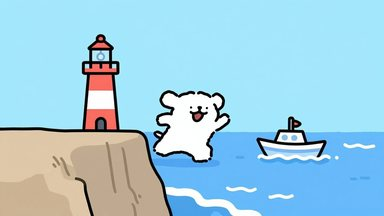
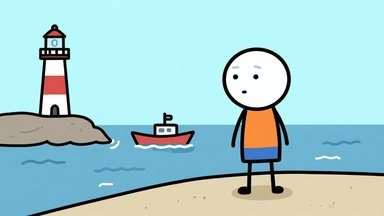
feat(editor): eight more picture styles, and a stickman redrawn from scratch
Adds pencil sketch, pixel art, claymation, paper cut-out, old engraving,
low-poly, film noir and cyberpunk neon, each with its three sample
pictures for the New video form.

The stickman style is rewritten: big bald white heads with dot eyes,
thin black line limbs, a small coloured tunic and flat-colour scenery.
Videos already made keep the wording they were made with.

diff --git a/resource/public/editor/editor.js b/resource/public/editor/editor.js
@@ -4677,6 +4677,10 @@ const STYLE_LABELS = {
   anime: "Anime", digital_art: "Digital art", oil_painting: "Oil painting",
   watercolour: "Watercolour", three_d: "3D render", flat_vector: "Flat vector",
   stickman: "Stickman explainer", comic: "Comic book",
+  pencil_sketch: "Pencil sketch", pixel_art: "Pixel art",
+  claymation: "Claymation", paper_cutout: "Paper cut-out",
+  engraving: "Old engraving", low_poly: "Low-poly", noir: "Film noir",
+  cyberpunk: "Cyberpunk neon",
 };
 
 function styleLabel(id) {

diff --git a/app/models/image_style.py b/app/models/image_style.py
@@ -56,33 +56,39 @@ class ImageStyle:
 # The first entry must match the shipped default template verbatim, or a fresh
 # install would open the selector showing "Custom". Asserted in the tests.
 #
-# “stickman”的措辞是逐张比对出来的,不要随手改长。实测十余张图说明：模型
-# 画这类角色时有很强的固有偏好,再怎么写“细黑线四肢”也只会得到圆头白身的
-# 吉祥物;真正会丢的是动作和道具。所以“手里拿着与动作相关的物体、充满动感
-# 的姿势”放在前面,背景描述放在最后——把词都花在背景上的那一版画出了漂亮的
-# 风景和一个呆站着的角色。另外“whiteboard”不能用,模型会真的画一块白板。
-# The wording here was arrived at by comparing frames, not by writing prose.
-# The test images showed the model has a strong prior for this round-headed
-# mascot and ignores limb geometry however it is described -- what it actually
-# drops is the action and the prop. So the action clause comes first and the
-# background clause last: the variant that spent its words on scenery drew a
-# beautiful landscape with a figure standing in it doing nothing. "objects of
-# the action" beats "tools of the action", which biases towards implements and
-# got a spatula for a keyword about two bottles. "whiteboard" is unusable --
-# the model draws an actual whiteboard, frame and all.
+# “stickman”重写过。原来那一版（"cute stick figure cartoon, round white
+# head, ... thin black line arms and legs"）画出来的是个圆头白身的吉祥物，
+# 不是火柴人。现在这一版照的是 YouTube 上"火柴人科普"那一路的样子：光头
+# 大白脑袋、两个小黑点眼睛加短眉毛、细黑线的胳膊和腿、身上一件纯色无袖
+# 小褂子，粗黑描边、平涂颜色、背景画满。逐张比对出来的几条：
+#   * 不能说 "cute" 和 "cartoon character"——模型一看到就走它那个白团子
+#     吉祥物的老路，四肢怎么描述都没用；
+#   * "胳膊和腿是单根细黑线"要单独说成一句；
+#   * 衣服必须说成"套在火柴身体外面的无袖小褂子"。只说"穿着纯色衬衫"，
+#     身体就被画成一整块色块，胳膊也跟着变粗；
+#   * 背景要明说"画满"，否则一半的图是白底。
+# 不能用的词："storyboard"（画出一页分镜格子）、"comic"和"frame"（给每张
+# 图加一个画框）、"whiteboard"（画出一块真的白板）。
+# The stickman preset was rewritten. The old wording drew a round white
+# mascot, not a stick figure. This one follows the look of the "stickman
+# explainer" channels: a big bald white head, tiny dot eyes with short
+# eyebrows, thin black line limbs, a small plain-coloured sleeveless tunic,
+# thick black outlines, flat colours and a fully drawn background. What the
+# test frames showed:
+#   * never "cute" or "cartoon character": that sends the model to its own
+#     white-blob mascot whatever is said about the limbs;
+#   * "arms and legs that are single thin black lines" has to be its own clause;
+#   * the clothing must be "a small sleeveless tunic over the stick body". A
+#     plain "wearing a coloured shirt" turns the whole body into a block of
+#     colour and thickens the arms with it;
+#   * the background has to be asked for, or half the pictures are on white.
+# Unusable words: "storyboard" (draws a grid of panels), "comic" and "frame"
+# (put a border round every picture), "whiteboard" (draws an actual one).
 #
-# 两个已知局限,不必再去调措辞：一是“贴地”的动作(弯腰、蹲下、在地面操作)
-# 大约一半的出图会丢掉道具,换过的每一种写法都这样,是模型本身的问题;二是
-# “expressive eyebrows”偶尔会画成皱眉,因为斜眉在模型眼里就是生气。想改表
-# 情只能连带牺牲别的,实测把它换成“与内容相称的表情”后,“存钱”这个词画出了
-# 一张哭丧脸。
-# Two known limits, so nobody burns another afternoon on the wording. Actions
-# at ground level -- bending, crouching, working on the floor -- drop the prop
-# in roughly half the draws, and did so in every wording tried; that is the
-# model, not the prompt. And "expressive eyebrows" occasionally lands as a
-# frown, because angled brows read as anger. Replacing it with "an expression
-# that matches what is happening" was tested and is worse: it drew a
-# miserable face for a keyword about saving money.
+# 后面那八种是和前面拉开距离的：前十二种里写实四种、绘画四种，后八种每一种
+# 都是"一眼认得出来"的做法（铅笔、像素、黏土、剪纸……）。
+# The last eight are deliberately far from the first twelve: each is a look
+# recognisable at a glance (pencil, pixels, clay, cut paper, ...).
 IMAGE_STYLE_PRESETS = (
     ImageStyle(
         "photorealistic",
@@ -147,18 +153,66 @@ IMAGE_STYLE_PRESETS = (
     ImageStyle(
         "stickman",
         "Image Style Stickman",
-        "{term}, cute stick figure cartoon, round white head, dot eyes,"
-        " expressive eyebrows, big happy smile, thin black line arms and legs,"
-        " clearly holding the objects of the action, mid-action pose full of"
-        " energy, bright flat vector colours, simple flat background showing"
-        " where this happens, full body centred, clean uncluttered composition,"
-        " wide 16:9 explainer illustration",
+        "{term}, stickman explainer cartoon with thick black outlines and flat"
+        " colours, the people are stick figures: a big bald white round head"
+        " with tiny dot eyes, short eyebrows and a small mouth, arms and legs"
+        " that are single thin black lines, and a small sleeveless coloured"
+        " tunic over the stick body, the scene behind them fully drawn with"
+        " flat colour sky, ground and objects, hand-drawn, no shading",
     ),
     ImageStyle(
         "comic",
         "Image Style Comic",
         "{term}, comic book art, bold ink outlines, halftone shading, dynamic"
         " composition, saturated colour",
+    ),
+    ImageStyle(
+        "pencil_sketch",
+        "Image Style Pencil Sketch",
+        "{term}, graphite pencil sketch on white paper, fine cross-hatching,"
+        " hand-drawn linework, monochrome, sketchbook drawing",
+    ),
+    ImageStyle(
+        "pixel_art",
+        "Image Style Pixel Art",
+        "{term}, 16-bit pixel art, chunky visible pixels, limited colour"
+        " palette, retro video game scene, crisp edges",
+    ),
+    ImageStyle(
+        "claymation",
+        "Image Style Claymation",
+        "{term}, claymation stop-motion scene, handmade plasticine figures"
+        " with visible fingerprints, miniature set, soft studio lighting",
+    ),
+    ImageStyle(
+        "paper_cutout",
+        "Image Style Paper Cutout",
+        "{term}, layered paper cut-out illustration, coloured craft paper"
+        " shapes, soft drop shadows between the layers, handmade collage",
+    ),
+    ImageStyle(
+        "engraving",
+        "Image Style Engraving",
+        "{term}, antique copperplate engraving, fine black cross-hatched lines"
+        " on aged cream paper, 19th century book illustration",
+    ),
+    ImageStyle(
+        "low_poly",
+        "Image Style Low Poly",
+        "{term}, low-poly 3D art, faceted geometric shapes, flat shaded"
+        " polygons, soft lighting, clean simple background",
+    ),
+    ImageStyle(
+        "noir",
+        "Image Style Noir",
+        "{term}, film noir still, high-contrast black and white, deep hard"
+        " shadows, low-key lighting, 1940s crime film atmosphere, light haze",
+    ),
+    ImageStyle(
+        "cyberpunk",
+        "Image Style Cyberpunk",
+        "{term}, cyberpunk illustration, night scene lit by pink and blue neon"
+        " light, wet reflective surfaces, futuristic glow, highly detailed",
     ),
 )
 
